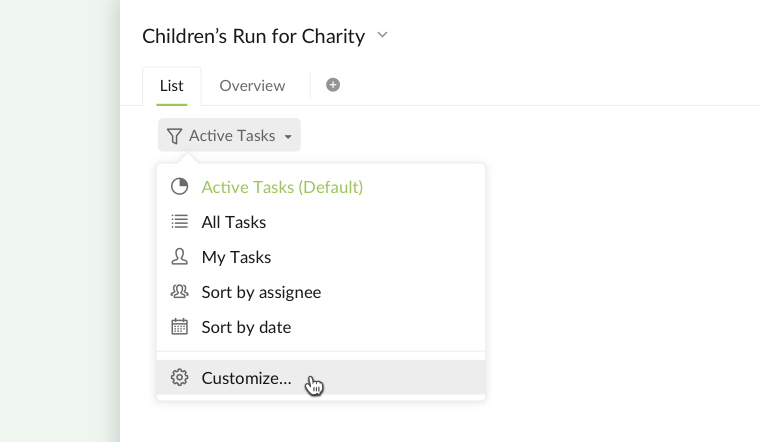
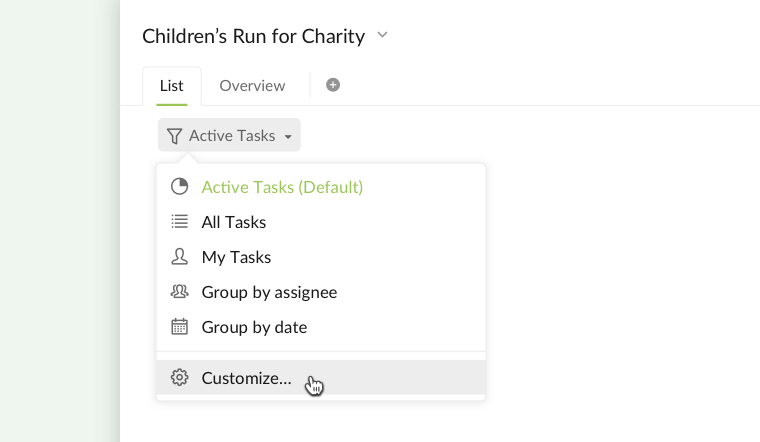
update articles 1. organization permission: typo fix 2. filter and sort: update images 3. fix typo: bottom message link to contact email

Changed region(s): [[0.2421, 0.7059, 0.4237, 0.7647], [0.2421, 0.6471, 0.4539, 0.6765]]

diff --git a/_layouts/single.html b/_layouts/single.html
@@ -58,7 +58,7 @@ layout: default
       {% if page.share %}{% include social-share.html %}{% endif %}
 
       <div class="send-feedback notice--primary">
-        Please <a href="https://quire.io/feedback" target="_blank">contact us</a> if you need more assistant.
+        Please <a href="https://quire.io/feedback" target="_blank">contact us</a> if you need more assistance.
       </div>
 
       {% include post_pagination.html %}

diff --git a/_docs/tasklist-12-filter-sort.md b/_docs/tasklist-12-filter-sort.md
@@ -33,6 +33,9 @@ You can choose to hide tasks that are completed in over 30 days, 60 days, 90 day
 
 ![excluded completed tasks]({{ site.url }}{{ site.baseurl }}/assets/images/filter-sort/filter_excluded_completed_task.png)
 
+**Note:** This option will appear when you have completed tasks over **60 days** ago. 
+{: .notice--warning}
+
 #### Save a customized filter
 
 When you have a sorting option or filter that you use a lot, you can save it so you don’t have to apply the options every time. 
@@ -44,6 +47,7 @@ After applying the filters to your tasks, click on the **star** icon at the end 
 You will find your saved filters in the dropdown menu at the filter icon.
 
 ![saved filter list]({{ site.url }}{{ site.baseurl }}/assets/images/filter-sort/saved_filter_list.png)
+
 
 
 ## Group your tasks
@@ -68,12 +72,12 @@ You can group your tasks by the options below:
 #### Group with two options
 You could group your tasks up to two different options. Click on the **+** icon beside an option and choose what option you would like to add. 
 
-![sort with two options]({{ site.url }}{{ site.baseurl }}/assets/images/filter-sort/sort_two_options.png)
+![group with two options]({{ site.url }}{{ site.baseurl }}/assets/images/filter-sort/group_two_options.png)
 
 #### Right-click to group tasks quickly
 You could right-click on an option to group your tasks without going to the filter bar. 
 
-![right-click to sort]({{ site.url }}{{ site.baseurl }}/assets/images/filter-sort/right_click_sort.png)
+![right-click to group]({{ site.url }}{{ site.baseurl }}/assets/images/filter-sort/right_click_group.png)
 
 ## Sort your tasks
 You can sort your tasks by the options below:
@@ -82,6 +86,11 @@ You can sort your tasks by the options below:
 - Name 
 - Priority 
 - Status
+
+#### Right-click to sort tasks quickly
+You could right-click on an option to sort your tasks without going to the filter bar. 
+
+![right-click to sort]({{ site.url }}{{ site.baseurl }}/assets/images/filter-sort/right_click_sort_status.png)
 
 
 ## Filter your tasks

diff --git a/_docs/permission-01-organization-permission.md b/_docs/permission-01-organization-permission.md
@@ -26,7 +26,7 @@ There are 5 types of organization members.
 | :------ |:-----:| :-----:|:-----:| :-----:|:-----:|
 | **Organization** <br> (including organization name and profile) | <span style="color:#F8A109">R</span>, <span style="color:#65AEFF">E</span>, <span style="color:#EB5F64">D</span> | <span style="color:#F8A109">R</span>, <span style="color:#65AEFF">E</span>  | <span style="color:#F8A109">R</span>, <span style="color:#65AEFF">E</span>   |  <span style="color:#F8A109">R</span>    |  <span style="color:#F8A109">R</span>  |
 | **Members Management**|  <span style="color:#F8A109">R</span>, <span style="color:#91C44B">C</span>, <span style="color:#65AEFF">E</span>, <span style="color:#EB5F64">D</span> | - | - |  -   | -  |
-| **Projects** | <span style="color:#F8A109">R</span>,<span style="color:#91C44B">C</span>,<span style="color:#65AEFF">E</span>,<span style="color:#EB5F64">D</span> | <span style="color:#F8A109">R</span>, <span style="color:#91C44B">C</span>, <span style="color:#65AEFF">E</span>  | <span style="color:#91C44B">C</span>   |  <span style="color:#F8A109">R</span>    |  -  |
+| **Projects** | <span style="color:#F8A109">R</span>, <span style="color:#91C44B">C</span>, <span style="color:#65AEFF">E</span>, <span style="color:#EB5F64">D</span> | <span style="color:#F8A109">R</span>, <span style="color:#91C44B">C</span>, <span style="color:#65AEFF">E</span>  | <span style="color:#91C44B">C</span>   |  <span style="color:#F8A109">R</span>    |  -  |
 
 
 Read more on our blog about [organization permission](https://quire.io/blog/p/Roles-&-Permissions-in-Quire.html). 
